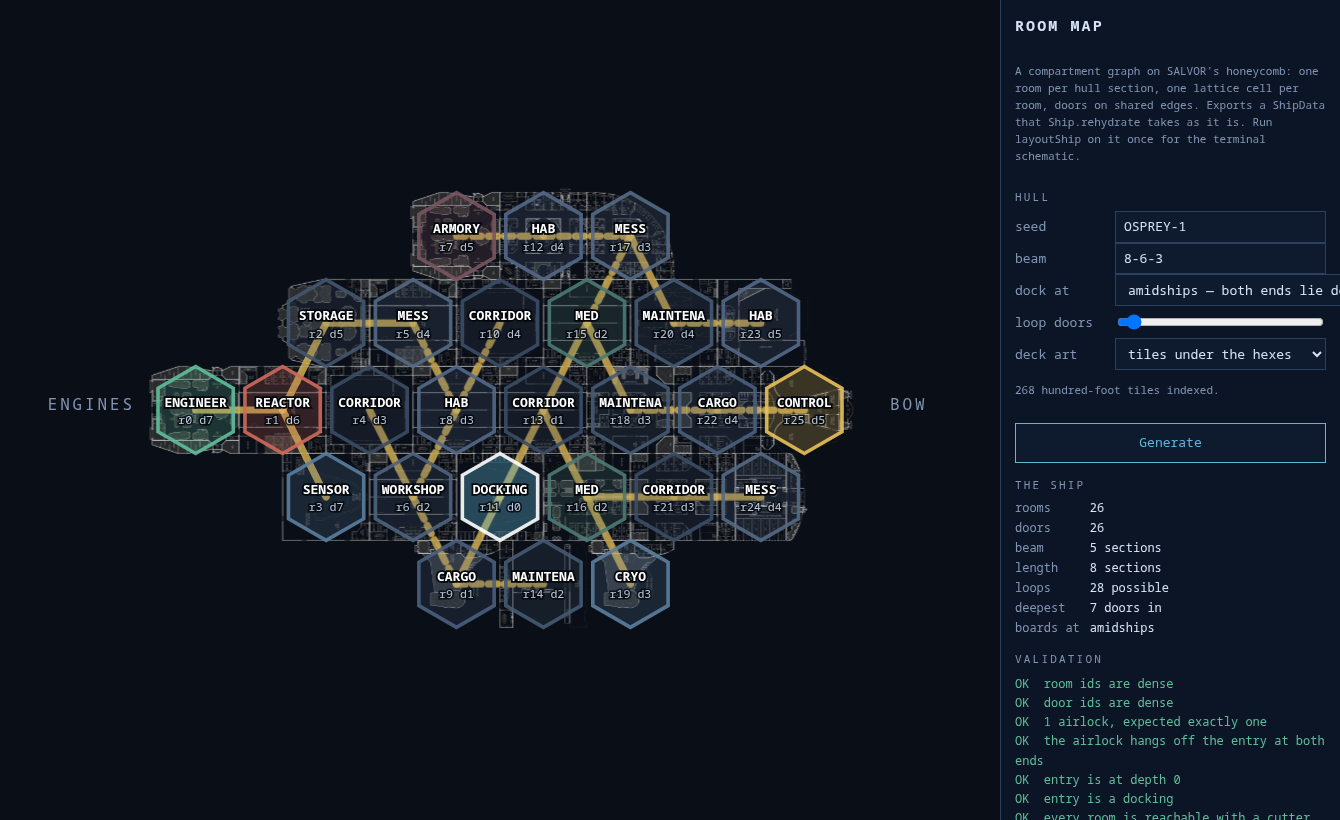
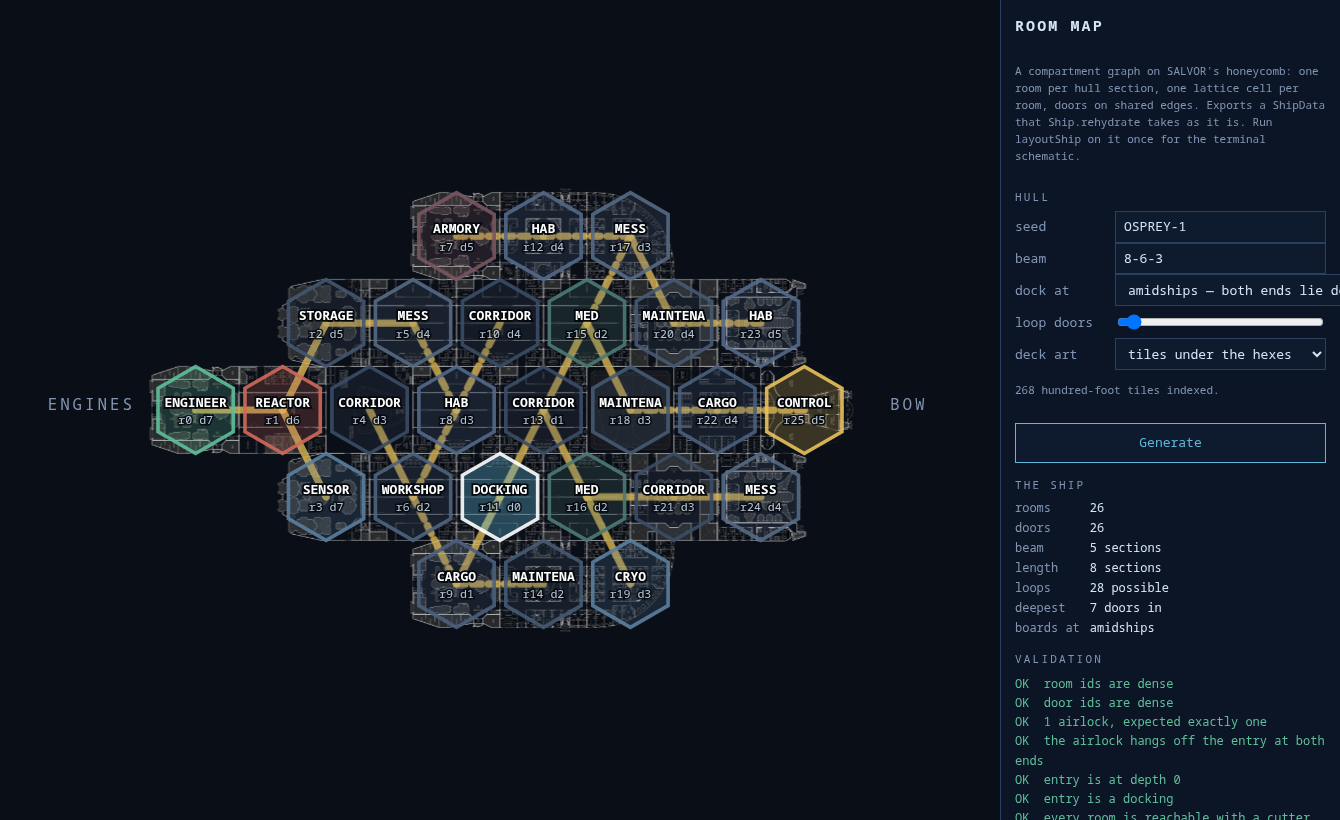
Mirror the plating across the keel
The hull is built by reflecting row +r into row -r with q' = q + r, so the
same identity finds the pair again when the art is chosen. The near side is
decided by scoring and the far side wears the same tile, mirrored. A ship is
symmetric about its keel and its plating should be too; it is the one thing
that makes a hull look drawn rather than assembled.

The mirror is scale(-1 1) in the tile's own frame and not in the ship's,
because SVG runs rotate(90) scale(sx sy) right to left: a tile is mirrored
before it is turned, so swapping its east and west first is what swaps the
ship's north and south afterwards. Mirroring in ship space would reflect the
hull along its length instead, which is not a thing a ship does. The same
order caught me out on the corner tiles a few commits ago and is written
down twice now for that reason.

The cost lands on the far side's doorways, and it is worth naming. A
mirrored tile was chosen against its twin's walls, and the door graph is not
symmetric — the spanning tree is grown once rather than reflected — so an
opening over there may not sit where that compartment needs one. Symmetry
was asked for and symmetry wins. The honest fix is to reflect the tree as
well, which makes the doors symmetric too and is a change to the ship rather
than to the picture.

Sixty-three ships still clean through validateShip.

Claude-Session: https://claude.ai/code/session_01Wr52GYJERHjFuwqE6kSUuR

diff --git a/vuvko_works/roomgen.html b/vuvko_works/roomgen.html
@@ -384,6 +384,18 @@ async function loadTiles(){
  */
 const TILE_SIDE = {e: "n", s: "e", w: "s", n: "w"};
 
+/** Drawn as drawn. */
+const NO_FLIP = {sx: 1, sy: 1};
+/**
+ * Mirrored across the keel.
+ *
+ * In the tile's own frame, which is the frame the transform is applied in:
+ * SVG runs `rotate(90) scale(sx sy)` right to left, so a tile is mirrored
+ * first and turned afterwards. Swapping the tile's east and west before the
+ * quarter turn is what swaps the ship's north and south after it.
+ */
+const MIRROR = {sx: -1, sy: 1};
+
 /**
  * Where a doorway has to sit for two tiles to meet at it.
  *
@@ -438,8 +450,33 @@ function artFor(rooms, seed, sections, occupied, ship){
   const roomAt = new Map();
   for (const [id, cell] of sections) roomAt.set(keyOf(cell), id);
 
-  const out = new Map();
+  /**
+   * Which compartment lies opposite this one across the keel.
+   *
+   * The hull is built by reflecting row `+r` into row `-r` with `q' = q + r`,
+   * so the same identity finds the pair again here. A ship is symmetric about
+   * its keel and its plating should be too: the far side wears the same tile
+   * as the near side, mirrored, which is the one thing that makes a hull look
+   * drawn rather than assembled.
+   */
+  const mirrorOf = new Map();
   for (const room of rooms){
+    const cell = sections.get(room.id);
+    if (cell.r === 0) continue;
+    const twin = roomAt.get(keyOf({q: cell.q + cell.r, r: -cell.r}));
+    if (twin !== undefined) mirrorOf.set(room.id, twin);
+  }
+
+  /* The near side first — the keel and everything north of it — because the
+     far side is going to copy it. */
+  const nearFirst = rooms.slice().sort(function keelOut(a, b){
+    return sections.get(a.id).r - sections.get(b.id).r;
+  });
+
+  const out = new Map();
+  for (const room of nearFirst){
+    /* Already decided, by the compartment it faces across the keel. */
+    if (out.has(room.id)) continue;
     const roles = KIND_ROLES[room.kind] || [];
     let pool = [];
     for (const role of roles){
@@ -508,7 +545,18 @@ function artFor(rooms, seed, sections, occupied, ship){
       if (score > bestScore) { bestScore = score; best = path; }
       if (score >= 16) break;            // nothing can beat a wall-perfect fit
     }
-    out.set(room.id, best);
+    out.set(room.id, {path: best, flip: NO_FLIP});
+
+    /* And its opposite number, mirrored across the keel.
+
+       `scale(-1 1)` in the tile's own frame is what mirrors the *ship* north
+       to south, because the tile is mirrored before it is turned: run the two
+       through in that order and a tile edge facing the ship's north comes out
+       facing its south, with east and west left alone. Flipping in ship space
+       instead would mirror the ship along its length, which is not a thing a
+       hull does. */
+    const twin = mirrorOf.get(room.id);
+    if (twin !== undefined && best !== null) out.set(twin, {path: best, flip: MIRROR});
   }
   return out;
 }
@@ -916,18 +964,22 @@ function draw(ship, art, sections){
     const plan = el("g", {opacity: .78});
 
     ship.rooms.forEach(function plate(room, i){
-      const tile = art.get(room.id);
-      if (!tile) return;
+      const worn = art.get(room.id);
+      if (!worn || !worn.path) return;
       const c = seats[i];
       /* Sized so the deck inside the file lands on the cell; the bleed goes
          over the neighbours, where it belongs. */
-      const span = pitch * (TILES.bleed.get(tile) ?? 1);
-      plan.appendChild(el("image", {
-        href: "geomorphs/" + tile,
-        x: c.x - span / 2, y: c.y - span / 2, width: span, height: span,
+      const span = pitch * (TILES.bleed.get(worn.path) ?? 1);
+      const held = el("g", {
+        transform: "translate(" + c.x + " " + c.y + ") rotate(90) scale("
+          + worn.flip.sx + " " + worn.flip.sy + ")",
+      });
+      held.appendChild(el("image", {
+        href: "geomorphs/" + worn.path,
+        x: -span / 2, y: -span / 2, width: span, height: span,
         preserveAspectRatio: "none",
-        transform: "rotate(90 " + c.x + " " + c.y + ")",
       }));
+      plan.appendChild(held);
     });
     svg.appendChild(plan);
   }

diff --git a/vuvko_works/design/generator-for-rooms.md b/vuvko_works/design/generator-for-rooms.md
@@ -255,6 +255,26 @@ core, side, loose, island. 211 of the fifty-foot pieces are corners; asking for
 "anything with two plated sides" instead got masts, scoops and an engine block
 used as a chamfer. A drive is not plating: it has its own place at the stern.
 
+**The plating is mirrored across the keel.** The hull is built by reflecting
+row `+r` into row `−r`, so the same identity finds the pair again when the art
+is chosen: the near side is decided by scoring and the far side wears the same
+tile, mirrored. A ship is symmetric about its keel and its plating should be
+too — it is the single thing that makes a hull look drawn rather than
+assembled.
+
+The mirror is `scale(-1 1)` in the *tile's* frame, not the ship's, because SVG
+runs `rotate(90) scale(sx sy)` right to left: a tile is mirrored before it is
+turned, so swapping its east and west first is what swaps the ship's north and
+south afterwards. Mirroring in ship space instead would reflect the hull along
+its length, which is not a thing a ship does.
+
+**The cost is on the far side's doorways.** A mirrored tile was chosen for its
+twin's walls, and the door graph is not symmetric — the spanning tree is grown
+once, not reflected — so an opening on the far side may not land where that
+compartment needs one. Symmetry was asked for and symmetry wins; the honest fix
+is to reflect the tree as well, which would make the doors symmetric too and is
+a change to the topology rather than to the picture.
+
 **Nothing is added at the edges, and the fifty-foot corners are gone.** They
 were laid into the notches beside the hull to chamfer its steps, through four
 attempts: the whole fifty-foot pool, then pieces with two plated sides, then
